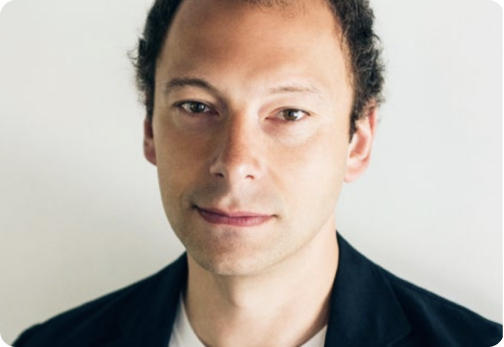
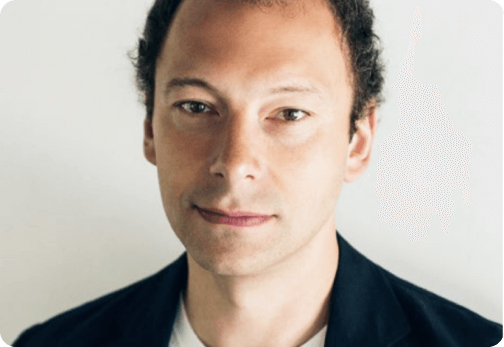
Оптимизировать картинки и добавить root

Changed region(s): [[0.744, 0.2305, 0.9226, 0.6628]]

diff --git a/blocks/root/root.css b/blocks/root/root.css
@@ -1,3 +1,9 @@
 .root {
-    
+  font-family: "Inter", Arial, sans-serif;
+  -webkit-font-smoothing: antialiased;
+  -moz-osx-font-smoothing: grayscale;
+  -webkit-text-size-adjust: 100%;
+  -ms-text-size-adjust: 100%;
+  -moz-text-size-adjust: 100%;
+  text-rendering: optimizeLegibility;
 }
